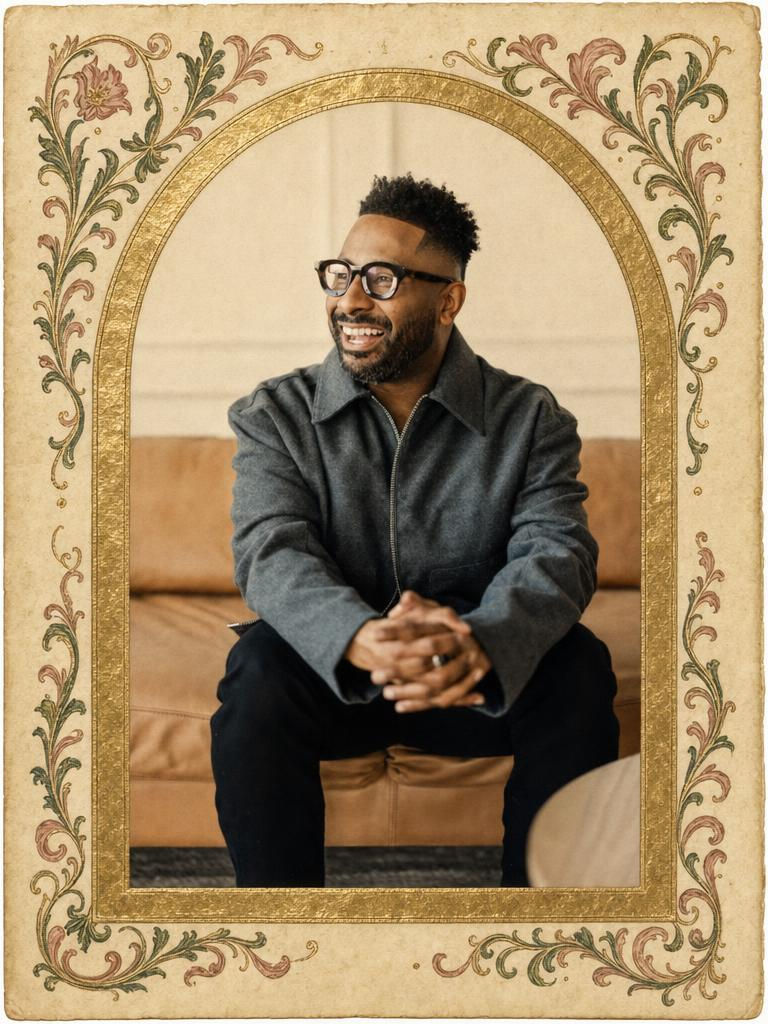
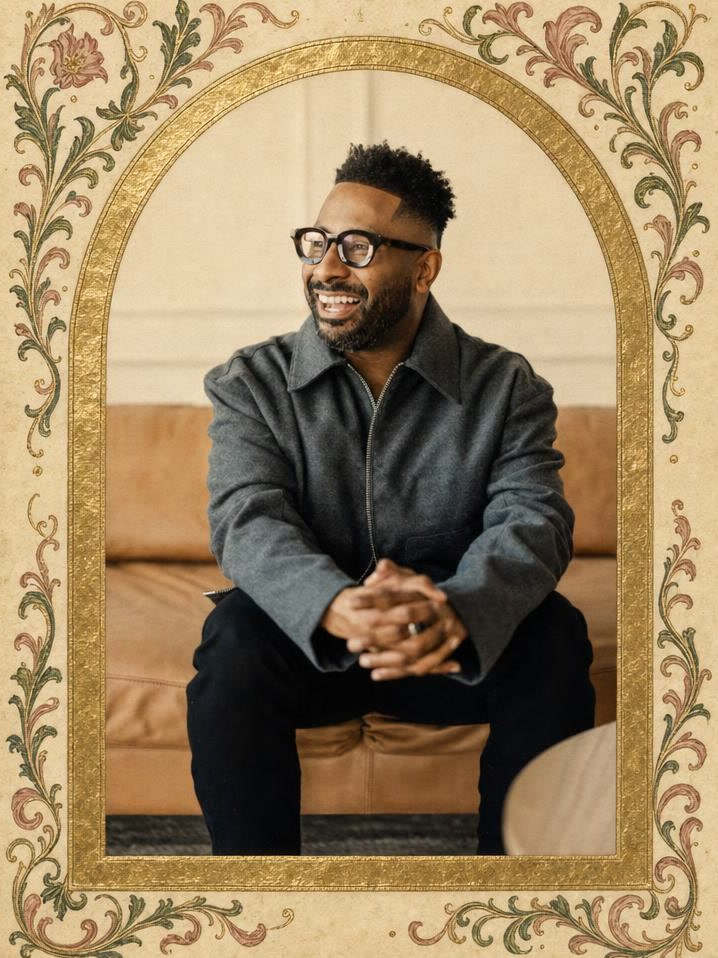
Fix three page-turn rendering bugs
- Crop the baked-in white paper rim off portrait-manny.jpg so the
  plate runs edge-to-edge like Lisa's (asset was 768x1024 with a
  ~3% pale border; now 718x958, ?v=2)
- Deterministic face swap at each leaf's edge-on moment via scrubbed
  tl.set() — some engines ignore backface-visibility mid-animation,
  ghosting a translucent front cover near the end of a turn
- Keep the static register page visibility:hidden until the final
  leaf lifts — z-index inside preserve-3d is unreliable and the page
  flashed on every turn in DuckDuckGo mobile
- Cache-bust book.css / book.js (?v=2)

diff --git a/js/book.js b/js/book.js
@@ -158,7 +158,7 @@
   var MANNY_PORTRAIT = {
     cls: 'pg--plate', chrome: 'none', body:
       '<div class="portrait">' +
-      '<div class="portrait__art"><img src="art/portrait-manny.jpg" alt="Dr. Manny Arango" onerror="this.src=\'images/manny-arango.jpg\'"></div>' +
+      '<div class="portrait__art"><img src="art/portrait-manny.jpg?v=2" alt="Dr. Manny Arango" onerror="this.src=\'images/manny-arango.jpg\'"></div>' +
       '<p class="portrait__caption"><strong>DR. MANNY ARANGO</strong> · Houston, Texas</p>' +
       '</div>'
   };
@@ -355,7 +355,10 @@
       }
       var last = SPREADS[SPREADS.length - 1];
       var staticHTML = pageHTML(last.right, 'recto', nextFolio(last.right));
-      html += '<div class="page-static page-static--right">' + staticHTML + '</div>';
+      /* starts hidden — z-index inside a preserve-3d context is unreliable
+         (it flashed over turning pages on some mobile engines); the timeline
+         reveals it the moment the final leaf lifts */
+      html += '<div class="page-static page-static--right" style="visibility:hidden">' + staticHTML + '</div>';
     } else {
       var blank = { cls: 'pg--blank', chrome: 'none', body: '' };
       leaves.push({ front: pageHTML(COVER, 'recto'), back: pageHTML(blank, 'verso'), cover: true, label: 'Cover', jump: 'cover' });
@@ -367,13 +370,16 @@
         });
       }
       var lastPg = MOBILE_PAGES[MOBILE_PAGES.length - 1];
-      html += '<div class="page-static page-static--right">' + pageHTML(lastPg.def, 'recto', nextFolio(lastPg.def)) + '</div>';
+      html += '<div class="page-static page-static--right" style="visibility:hidden">' + pageHTML(lastPg.def, 'recto', nextFolio(lastPg.def)) + '</div>';
     }
 
     leaves.forEach(function (leaf, i) {
+      /* Back faces start visibility:hidden — CSS backface-visibility alone
+         is not honored mid-animation by every engine (ghosting); the
+         timeline swaps face visibility at each leaf's edge-on moment. */
       html += '<div class="leaf' + (leaf.cover ? ' leaf--cover' : '') + '" data-leaf="' + i + '" style="z-index:' + (60 - i) + '">' +
         '<div class="leaf__face leaf__face--front">' + leaf.front + '</div>' +
-        '<div class="leaf__face leaf__face--back">' + leaf.back + '</div>' +
+        '<div class="leaf__face leaf__face--back" style="visibility:hidden">' + leaf.back + '</div>' +
         '</div>';
     });
 
@@ -400,6 +406,7 @@
     var edgeLeft = document.getElementById('edgeLeft');
     var castRight = document.getElementById('castRight');
     var castLeft = document.getElementById('castLeft');
+    var staticPg = bookWrap.querySelector('.page-static');
     var TOPZ = 220;
 
     // starting pose: closed book, centered on its cover
@@ -454,6 +461,16 @@
         tl.to(book, { xPercent: 0, duration: 1, ease: 'power1.inOut' }, t);
         tl.to([boardLeft, edgeLeft], { opacity: 1, duration: 0.45 }, t + 0.5);
       }
+      /* Deterministic face swap at the edge-on moment (90°). Some engines
+         ignore backface-visibility while the transform animates and ghost
+         the outgoing face (e.g. a translucent cover mid-turn); a scrubbed
+         set() applies forward and reverts when scrolled back. */
+      tl.set(front, { visibility: 'hidden' }, t + 0.5);
+      tl.set(back, { visibility: 'visible' }, t + 0.5);
+      /* The static register page stays hidden until the last leaf lifts —
+         inside preserve-3d its z-index isn't trustworthy on every engine
+         (it flashed on each page turn in DuckDuckGo mobile). */
+      if (i === leaves.length - 1 && staticPg) tl.set(staticPg, { visibility: 'visible' }, t);
       tl.set(el, { zIndex: i + 1 }, t + 1);
 
       t += 1;

diff --git a/index.html b/index.html
@@ -11,7 +11,7 @@
 <link rel="icon" type="image/png" href="images/z-icon.png">
 <link rel="preload" href="fonts/TheQualityBrave-Regular.otf" as="font" type="font/otf" crossorigin>
 <link rel="preload" href="fonts/F00044.otf" as="font" type="font/otf" crossorigin>
-<link rel="stylesheet" href="css/book.css">
+<link rel="stylesheet" href="css/book.css?v=2">
 </head>
 <body>
 
@@ -85,6 +85,6 @@
 <script src="js/gsap.min.js"></script>
 <script src="js/ScrollTrigger.min.js"></script>
 <script src="js/lenis.min.js"></script>
-<script src="js/book.js"></script>
+<script src="js/book.js?v=2"></script>
 </body>
 </html>